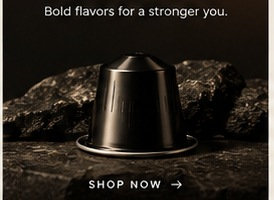
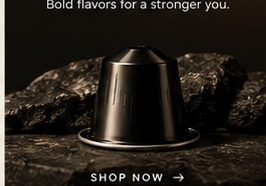
fix: hero marble crop and collection card structure per mockup blueprint
- Hero: photo-only crop showing espresso, capsule box, and marble surface
- Collections: restore title header → photo → SHOP NOW footer card layout
- Re-crop collection and sustainability photography from design-refs

VPods-Actor: vpods-hire:rae/task_3ab30883

diff --git a/app/page.tsx b/app/page.tsx
@@ -85,10 +85,10 @@ export default function HomePage() {
             alt="Marble countertop with espresso, ARÔMA capsule box, and colorful capsules"
             fill
             priority
-            className="object-cover object-[60%_40%]"
+            className="object-cover object-right-center"
             sizes="100vw"
           />
-          <div className="absolute inset-0 bg-gradient-to-r from-aroma-black from-15% via-aroma-black/90 via-55% to-aroma-black/40 to-80%" />
+          <div className="absolute inset-0 bg-gradient-to-r from-aroma-black from-10% via-aroma-black/92 via-50% to-transparent to-75%" />
         </div>
 
         <Header />
@@ -155,31 +155,34 @@ export default function HomePage() {
             </p>
           </div>
 
-          {/* Collection grid — photo with bottom overlay text per mockup */}
+          {/* Collection grid — title header, photo, SHOP NOW footer per mockup */}
           <div className="grid gap-6 sm:grid-cols-2 lg:grid-cols-4 lg:gap-5">
             {collections.map((col) => (
               <article
                 key={col.title}
-                className="group relative aspect-[3/4] overflow-hidden bg-aroma-charcoal sm:aspect-[4/5]"
+                className="group flex flex-col overflow-hidden bg-aroma-charcoal"
               >
-                <Image
-                  src={col.image}
-                  alt={col.alt}
-                  fill
-                  className="object-cover transition-transform duration-500 group-hover:scale-105"
-                  sizes="(max-width: 768px) 100vw, 25vw"
-                />
-                <div className="absolute inset-0 bg-gradient-to-t from-aroma-black via-aroma-black/50 to-transparent" />
-                <div className="absolute inset-x-0 bottom-0 px-5 pb-5 pt-16">
+                <div className="px-5 pb-4 pt-5">
                   <h3 className="font-serif text-sm font-medium uppercase tracking-wide text-aroma-gold md:text-base">
                     {col.title}
                   </h3>
-                  <p className="mt-1 font-sans text-xs text-white/75 md:text-sm">
+                  <p className="mt-1 font-sans text-xs text-white/70 md:text-sm">
                     {col.tagline}
                   </p>
+                </div>
+                <div className="relative aspect-[4/3] overflow-hidden">
+                  <Image
+                    src={col.image}
+                    alt={col.alt}
+                    fill
+                    className="object-cover transition-transform duration-500 group-hover:scale-105"
+                    sizes="(max-width: 768px) 100vw, 25vw"
+                  />
+                </div>
+                <div className="px-5 py-4 text-center sm:text-left">
                   <a
                     href="#shop"
-                    className="mt-4 inline-block font-sans text-[10px] font-semibold uppercase tracking-[0.15em] text-white transition-colors hover:text-aroma-gold"
+                    className="font-sans text-[10px] font-semibold uppercase tracking-[0.15em] text-white transition-colors hover:text-aroma-gold"
                   >
                     Shop Now →
                   </a>
